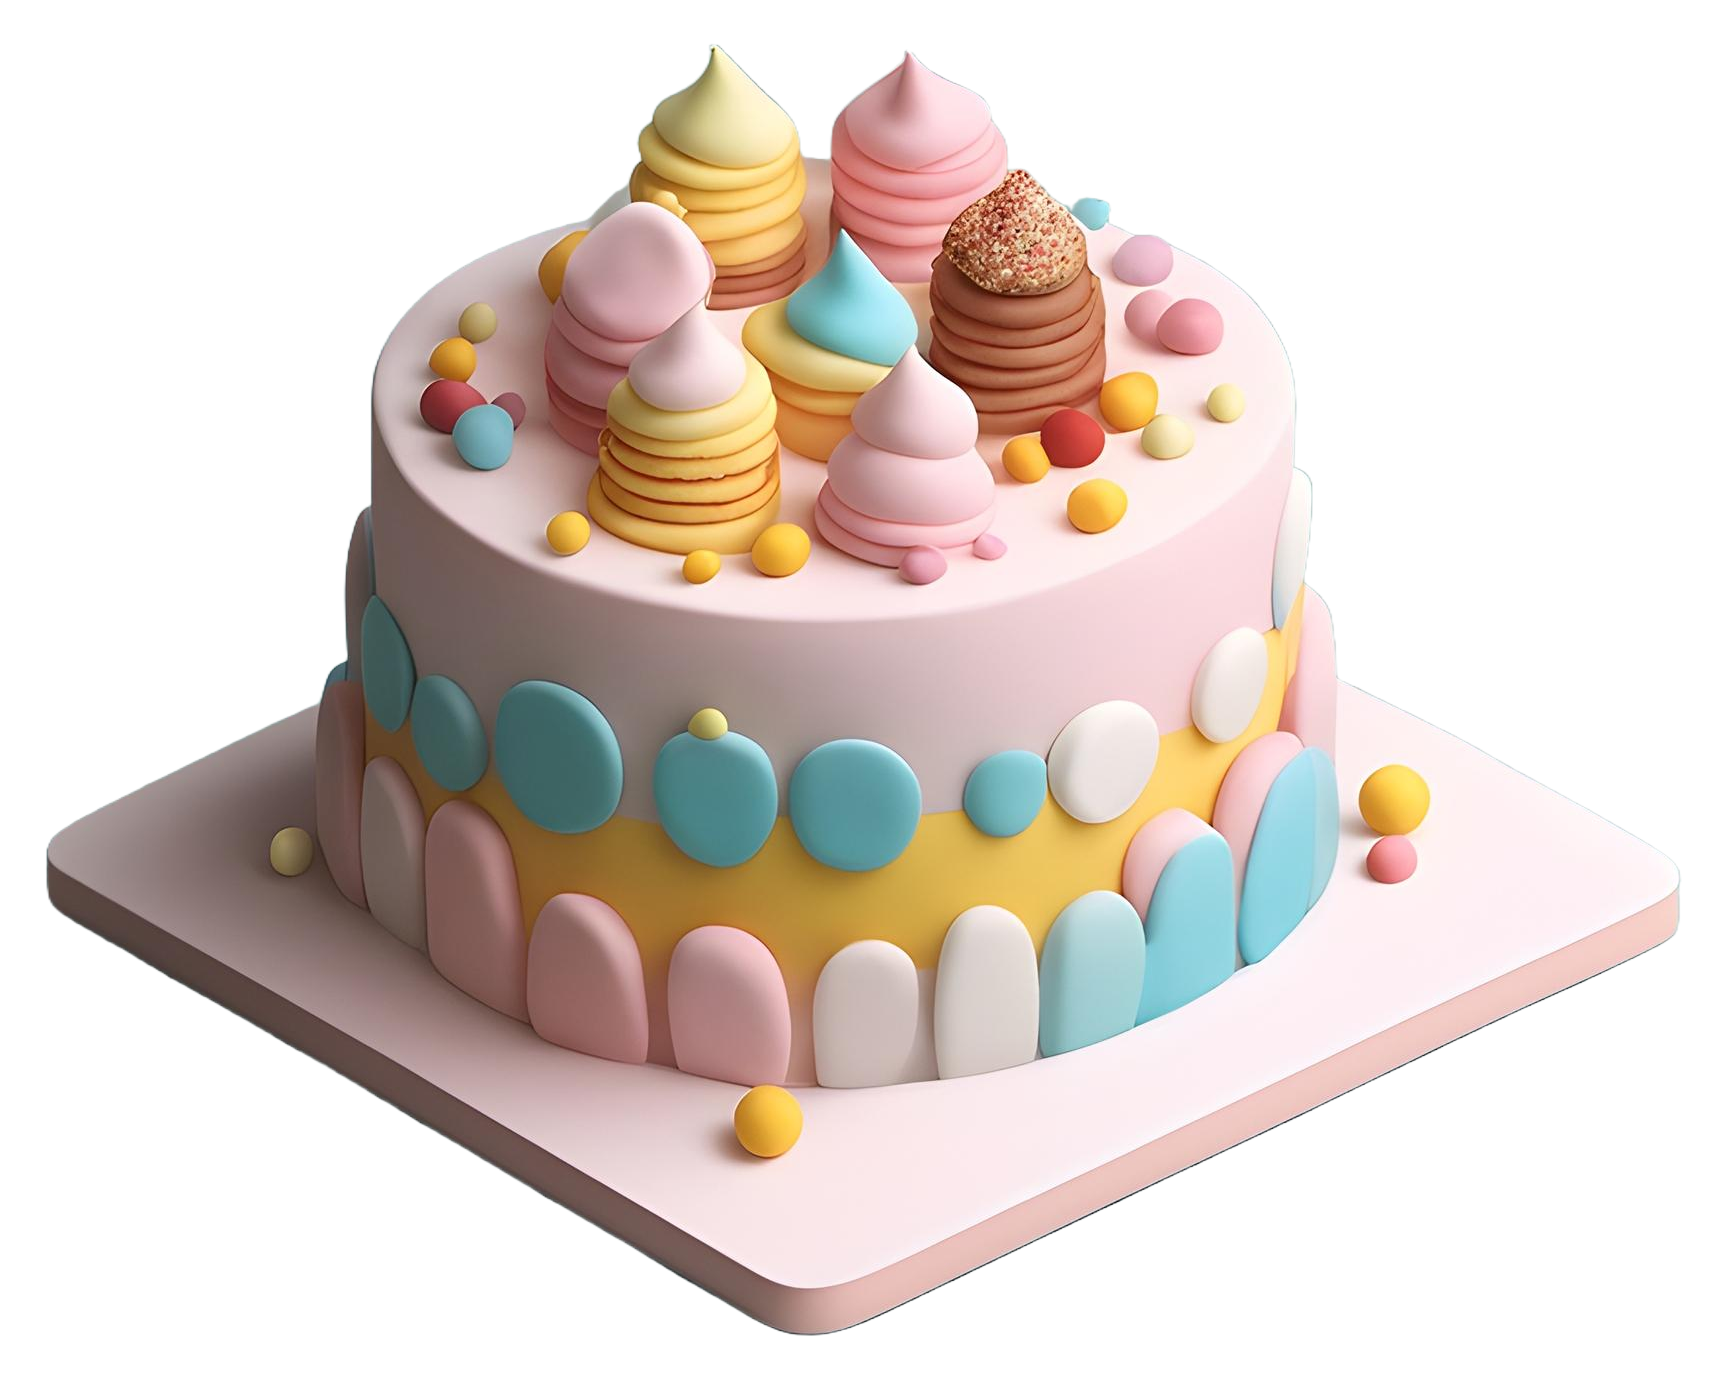
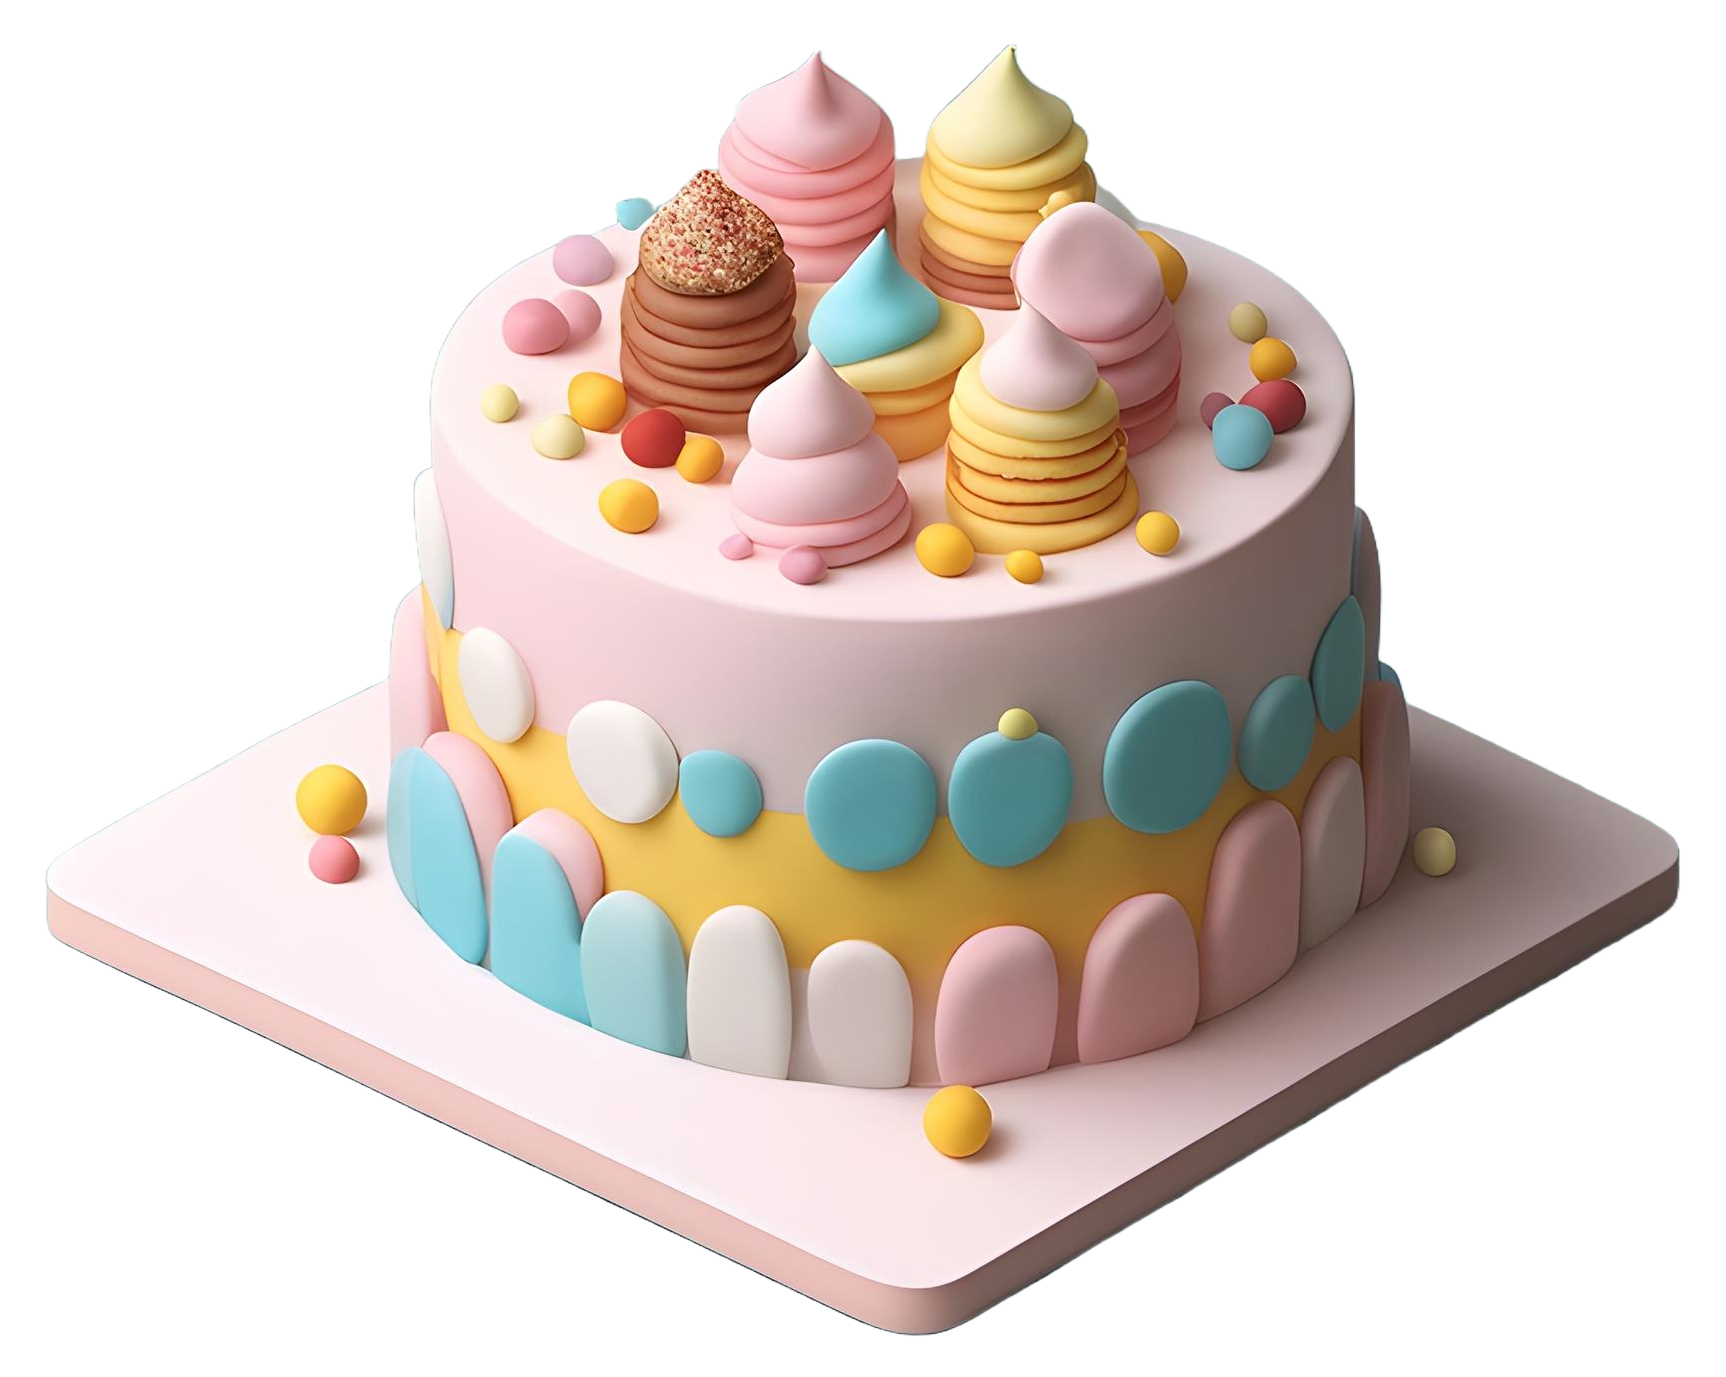
update home_page cakes scene

diff --git a/project/cakes/main/static/main/style/home.css b/project/cakes/main/static/main/style/home.css
@@ -33,7 +33,7 @@
       width: 100%;
       height: auto;
       background: linear-gradient(to bottom, #fff8e3 40%, #fff8e3 40%, #FFECD4 40%, #FFECD4 100%);
-      box-shadow: 0px 20px 30px rgba(0, 0, 0, 0.1);
+      box-shadow: 0px 20px 30px rgba(0, 0, 0, 0.2);
       gap: 15px;
     }
 
@@ -65,17 +65,29 @@
       max-width: 37%;
       height: auto;
       align-self: flex-end;
+      transition: transform 0.3s ease, background-color 0.3s ease;
+
+    }
+    .home-cake3:hover,
+    .home-cake2:hover,
+    .home-cake:hover{
+      transform: scale(1.05);
     }
 
+
     .home-cake2{
-      max-width: 25%;
+      max-width: 27%;
       height: auto;
       align-self: center;
+      transition: transform 0.3s ease, background-color 0.3s ease;
+
     }
     .home-cake3{
       max-width: 25%;
       height: auto;
       align-self: flex-start;
+      transition: transform 0.3s ease, background-color 0.3s ease;
+      margin-right: 10px;
     }
 
 
@@ -369,8 +381,8 @@
   padding: 15px 30px;
   text-decoration: none;
   border-radius: 10px;
-  border-top: 7px  solid #aae3dc;
-  border-right: 9px  solid #aae3dc;;
+  border-top: 8px  solid #aae3dc;
+  border-right: 10px  solid #aae3dc;;
   box-shadow: 0 4px 6px rgba(0, 0, 0, 0.3), /* Внешняя тень */
                   inset 0 2px 4px rgba(255, 255, 255, 0.2); /* Внутренняя тень */
   transition: transform 0.2s, background-color 0.2s;

diff --git a/project/cakes/main/templates/main/home.html b/project/cakes/main/templates/main/home.html
@@ -11,9 +11,9 @@
 
 
     <div class="home-cake-row">
-        <img src="{% static 'main/img/home_cake2.png' %}" class="home-cake3"/>
-    <img src="{% static 'main/img/home_cake.png' %}" class="home-cake"/>
-        <img src="{% static 'main/img/home_cake3.png' %}" class="home-cake2"/>
+        <img src="{% static 'main/img/home_cake22.png' %}" class="home-cake3"/>
+    <img src="{% static 'main/img/home_cake1.png' %}" class="home-cake"/>
+        <img src="{% static 'main/img/home_cake33.png' %}" class="home-cake2"/>
 
 </div>
 </div>
